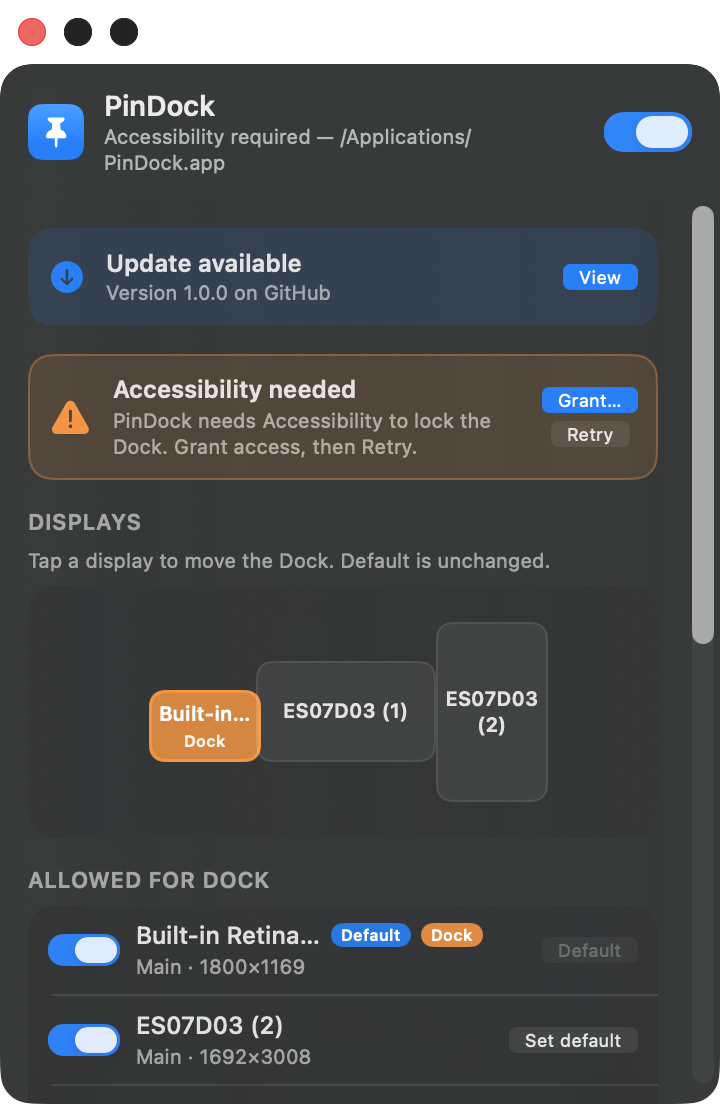
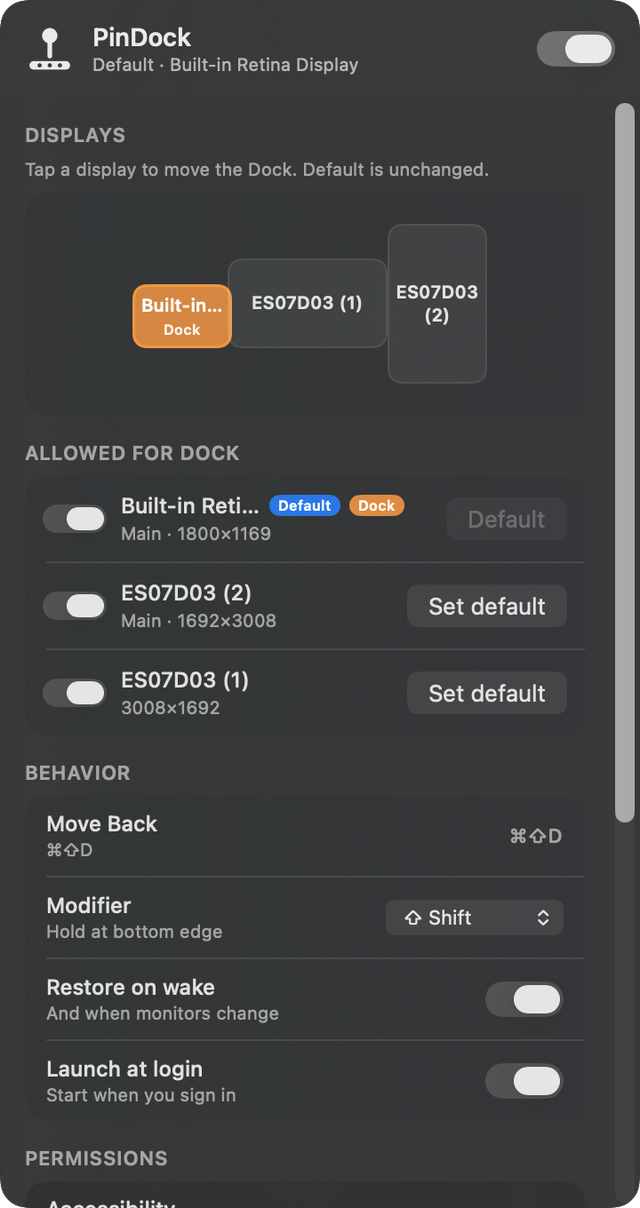
Refresh README screenshots from live UI preview
Capture current panel (logo header, Behavior/Permissions/Updates)
via --ui-preview with engine started for realistic status. Borderless
preview window matches the menu-bar popover chrome.

diff --git a/Sources/PinDock/AppDelegate.swift b/Sources/PinDock/AppDelegate.swift
@@ -15,18 +15,6 @@ final class AppDelegate: NSObject, NSApplicationDelegate, NSPopoverDelegate {
         knownDisplayIDs = Set(DisplayManager.shared.displays.map(\.id))
         AppState.shared.refresh()
 
-        // Maintainer helper: `PinDock --ui-preview` opens the panel as a window for screenshots.
-        if CommandLine.arguments.contains("--ui-preview") {
-            NSApp.setActivationPolicy(.regular)
-            showUIPreviewWindow()
-            return
-        }
-
-        setupStatusItem()
-        setupPopover()
-        registerNotifications()
-        LaunchAtLogin.syncFromPreferences()
-
         PinDockEngine.shared.onStateChanged = { [weak self] in
             DispatchQueue.main.async {
                 let prefs = Preferences.shared
@@ -47,6 +35,20 @@ final class AppDelegate: NSObject, NSApplicationDelegate, NSPopoverDelegate {
             scheduleLoginRestore()
         }
 
+        // Maintainer helper: `PinDock --ui-preview` opens the panel as a window for screenshots.
+        // Engine is started above so the UI matches a real session (no false banners).
+        if CommandLine.arguments.contains("--ui-preview") {
+            NSApp.setActivationPolicy(.regular)
+            AppState.shared.refresh()
+            showUIPreviewWindow()
+            return
+        }
+
+        setupStatusItem()
+        setupPopover()
+        registerNotifications()
+        LaunchAtLogin.syncFromPreferences()
+
         updateStatusIcon()
         // Do not auto-open panel on launch — Control Center style: user opens it.
     }
@@ -62,17 +64,17 @@ final class AppDelegate: NSObject, NSApplicationDelegate, NSPopoverDelegate {
         let hosting = NSHostingController(rootView: root)
         hosting.view.frame = NSRect(x: 0, y: 0, width: panelW, height: panelH)
 
+        // Borderless panel so screenshots match the real menu-bar popover (no traffic lights).
         let window = NSPanel(
             contentRect: NSRect(x: 0, y: 0, width: panelW, height: panelH),
-            styleMask: [.titled, .closable, .fullSizeContentView, .nonactivatingPanel],
+            styleMask: [.borderless, .fullSizeContentView, .nonactivatingPanel],
             backing: .buffered,
             defer: false
         )
         window.title = "PinDock"
-        window.titleVisibility = .hidden
-        window.titlebarAppearsTransparent = true
         window.isOpaque = false
         window.backgroundColor = .clear
+        window.hasShadow = true
         window.isFloatingPanel = true
         window.level = .floating
         window.collectionBehavior = [.canJoinAllSpaces, .fullScreenAuxiliary]

diff --git a/README.md b/README.md
@@ -28,15 +28,15 @@
 ---
 
 <p align="center">
-  <img src="docs/assets/screenshot-popover.png" width="360" alt="PinDock panel — real app UI">
+  <img src="docs/assets/screenshot-popover.png" width="360" alt="PinDock panel — displays, allowed list, behavior">
 </p>
 
 <p align="center">
-  <em>Real app UI — menu bar panel (glass style).</em>
+  <em>Real app UI — menu bar panel (glass style). Displays · Allowed · Behavior · Permissions · Updates.</em>
 </p>
 
 <p align="center">
-  <img src="docs/assets/screenshot-menubar.png" width="380" alt="PinDock panel with window chrome">
+  <img src="docs/assets/screenshot-menubar.png" width="380" alt="PinDock panel (floating)">
 </p>
 
 ---
